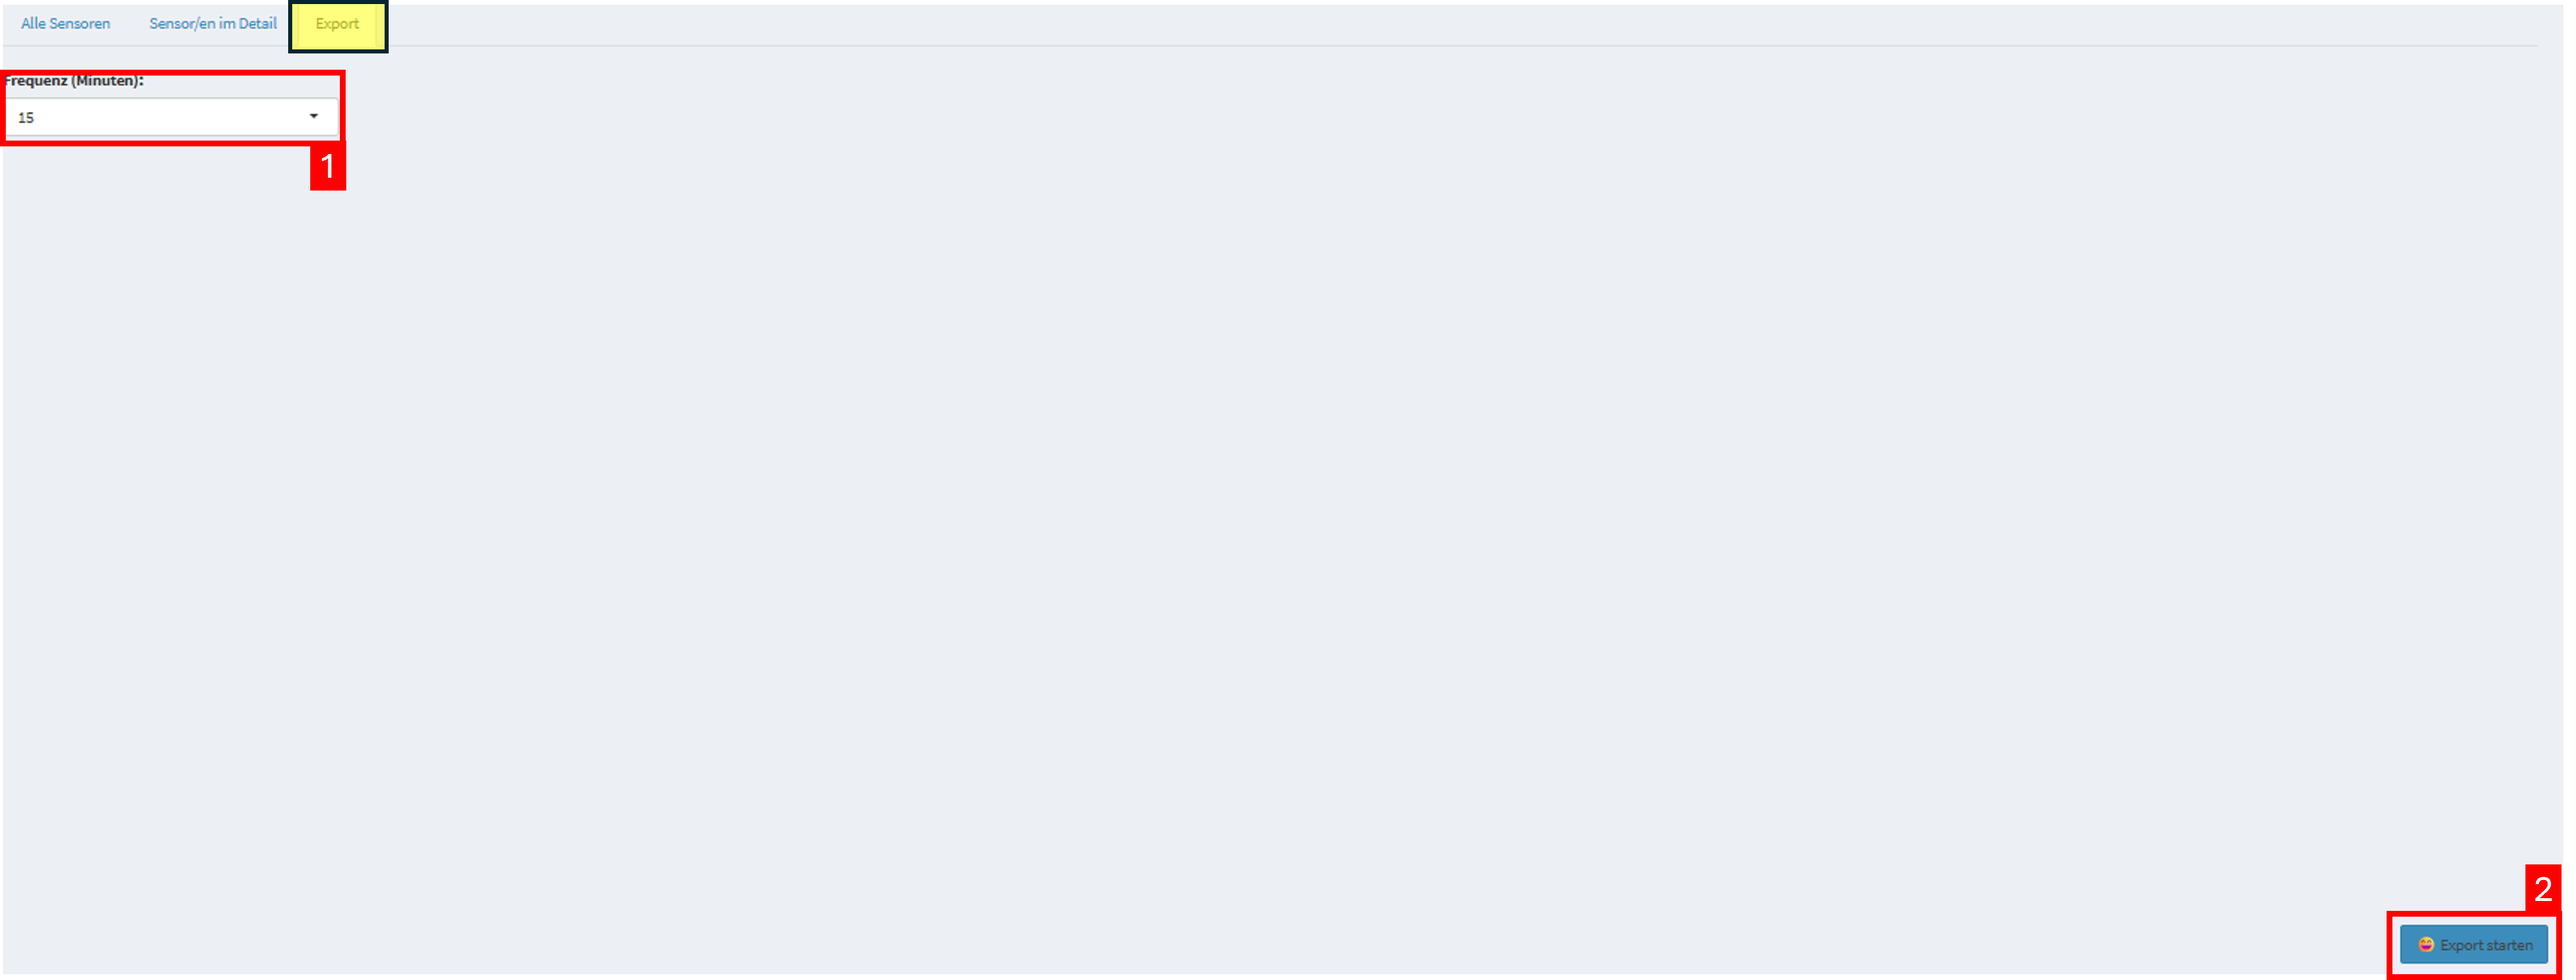
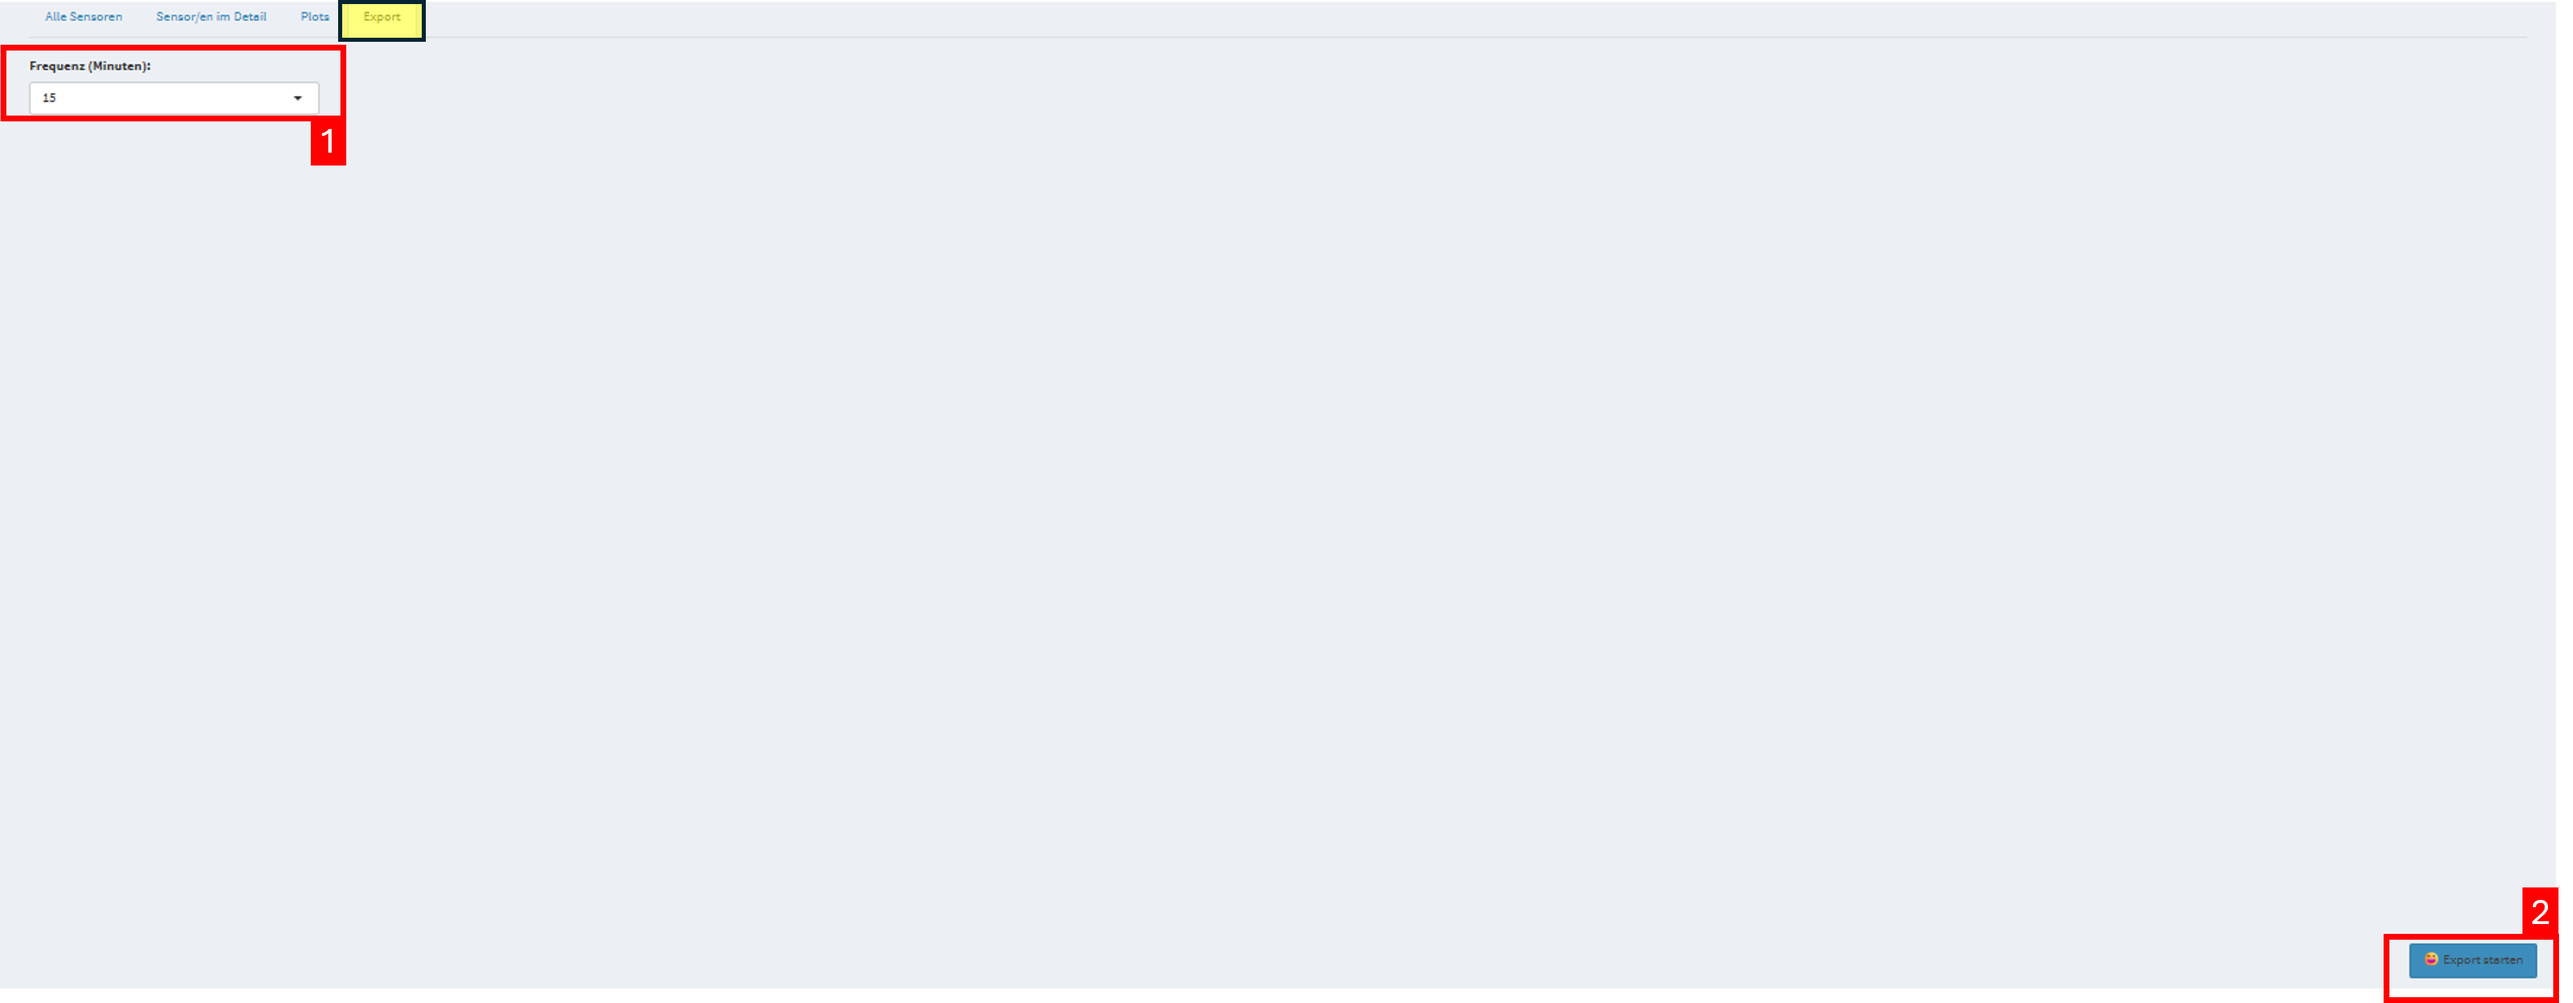
Change screenshots and README

Changed region(s): [[0.0, 0.0, 0.1869, 0.1849], [0.9036, 0.9247, 0.9971, 0.9864]]

diff --git a/README.md b/README.md
@@ -12,13 +12,14 @@
     - Möglichkeit im Dashboard die Daten im CSV-Format zu exportieren.
 - **Ansatz:**
     - Umsetzung der Funktionen mit R. und Aufbau des Dashboards mittels Shiny.
-    - Rohdaten aus einer InfluxDB einlesen, aufbereiten und transformieren.
-    - Bewerten der Daten anhand definierter Qualitätsdimensionen. (Vollständigkeit, Konsistenz, Gültigkeit, Aktualität und Eindeutigkeit)
+    - Einlesen, Aufbereitung und Transformation von Rohdaten aus einer InfluxDB.
+    - Bewertung der Daten anhand definierter Qualitätsdimensionen. (Vollständigkeit, Konsistenz, Gültigkeit, Aktualität und Eindeutigkeit)
 - **Funktionalitäten des Prototyps:**
     - Interaktive Shiny-App
     - Übersichtstabelle der Qualitätsmetriken je Sensor
     - Filter nach Zeitraum, Uhrzeit und Sensor
     - Detailansicht einzelner Sensoren mit Rohdaten
+    - Visualisierung der Qualitätsmetriken einzelner Sensoren
     - Erklärung zu den Qualitätsdimensionen der Daten
     - Export der Daten
 
@@ -26,38 +27,51 @@
 ## Verzeichnisstruktur
 
 ```text
-📁 data/                        # CSV-Dateien für Analyse und Shiny-App
-|---📁 testdaten_hmsense/       # Order für gegebene Beispieldaten
-    |--- r1.csv                 # Beispieldaten 1
-    |--- r2.csv                 # Beispieldaten 2
-|--- data_quality_report.csv    # Bewertete Datenqualität pro Sensor
-|--- influx_block_1.csv         # Rohdatenblock mit allgemeinen Systeminformationen
-|--- influx_block_2.csv         # Rohdatenblock mit Eingangsparametern
-|--- influx_block_3.csv         # Messblock
-|--- influx_block_4.csv         # Rohdatenblock mit Sensortyp-Informationen
-|--- influx_block_5.csv         # Rohdatenblock mit Prozessor-Informationen
-|--- influx_block_6.csv         # Rohdatenblock mit Ausgangsparametern
-|--- influx_block_7.csv         # Relevante Sensordaten (z. B. Temperatur, CO₂)
-|--- sensor_daten_buendelt.csv  # Aufbereitete Zeitreihendaten aller Sensoren
-📁 README_Screenhots/           # Bilder für die README
-📁 shiny/                       # R-Skripte für die Datenaufbereitung und Shiny-App
-|--- 01_load_data.R             # Lädt und speichert Daten aus der InfluxDB als CSV
-|--- 02_prepare_sensor_data.R   # Umwandlung in Tabellen und Bewertung der Datenqualität
-|--- 03_app.R                   # Shiny-App
-.DS_Store                       # macOS-Systemdatei (wird ignoriert)
-.gitignore                      # Definiert, welche Datein Git ignorieren soll
-Entwicklungstagebuch.md         # Entwicklungstagebuch
-README.md                       # Diese Datei
-Stake_protokoll.md              # Protokoll des Stakeholder:innen Gespräch
-dashboard.Rproj                 # RStudio-Projektdatei zum Projektstart
-de_ModA_SoSe25_Teil2_Angabe.pdf # Aufgabenstellung Modularbeit
-setup_install.R                 # Installationsbefehle
+📁 README_Screenhots/               # Ordner für verwendete Screenshots im README
+|--- data_quality_report.csv        # Bewertete Datenqualität pro Sensor
+|--- influx_block_1.csv             # Rohdatenblock mit allgemeinen 
+📁 data/                            # Ordner für genutzte und erstellte .csv Dateien
+|---📁 testdaten_hmsense/           # Ordner für gegebene Beispieldaten
+    |--- r1.csv                     # Beispieldaten 1
+    |--- r2.csv                     # Beispieldaten 2
+|--- data_quality_report.csv        # Bewertete Datenqualität pro Sensor
+|--- influx_block_1.csv             # Rohdatenblock mit allgemeinen Systeminformationen
+|--- influx_block_2.csv             # Rohdatenblock mit Eingangsparametern
+|--- influx_block_3.csv             # Messblock
+|--- influx_block_4.csv             # Rohdatenblock mit Sensortyp-Informationen
+|--- influx_block_5.csv             # Rohdatenblock mit Prozessor-Informationen
+|--- influx_block_6.csv             # Rohdatenblock mit Ausgangsparametern
+|--- influx_block_7.csv             # Relevante Sensordaten (z. B. Temperatur, CO₂)
+|--- sensor_daten_buendelt.csv      # Aufbereitete Zeitreihendaten aller Sensoren
+📁 shiny/                           # R-Skripte für die Datenaufbereitung und Shiny-App
+|--- 01_load_data.R                 # Lädt und speichert Daten aus der InfluxDB als CSV
+|--- 02_prepare_sensor_data.R       # Umwandlung in Tabellen und Bewertung der Datenqualität
+|--- app.R                          # Shiny-App
+.DS_Store                           # macOS-Systemdatei (wird ignoriert)
+.gitignore                          # Definiert, welche Datein Git ignorieren soll
+Dashboard_Brainstorm_wireframe.pdf  # Sammlung von Ideen zum Dashboard
+Entwicklungstagebuch.md             # Entwicklungstagebuch
+README.md                           # Diese Datei
+Stake_protokoll.md                  # Protokoll des Stakeholder:innen Gespräch
+dashboard.Rproj                     # RStudio-Projektdatei zum Projektstart
+de_ModA_SoSe25_Teil2_Angabe.pdf     # Aufgabenstellung Modularbeit
+setup_install.R                     # Installationsbefehle
 ```
 
 ## Schritt-für-Schritt-Anleitung
-### **1. Benötigte Pakete installieren**
+
+Um die Funktionalität des Datenqualitäts-Dashboards zu zeigen, wurden beispiel .csv Dateien im */data* Ordner gespeichert. Diese Daten enthalten die Sensormesswerte für den Zeitraum von 13.06.2025 - 14.06.2025. Falls mit diesen Daten gearbeitet wird, können die Schritte **3. Daten aus der InfluxDB laden und speichern** und **4. Daten aufbereiten und Datenqualität bewerten** übersprungen werden. 
+
+Um die Daten der letzten 24 Stunden zu bekommen muss man die Schritte **3. Daten aus der InfluxDB laden und speichern** und **4. Daten aufbereiten und Datenqualität bewerten** ausführen. **Wichtig** hierbei ist, dass man die config.yml Datei dafür in das Verzeichnis */de_ma_group6* speichern muss, da man diese benötigt um sich mit der InfluxDB zu verbinden. Mit der Ausführung der Schritte 3. und 4. werden die existierenden .csv Dateien in */data* überschrieben.
+
+### **1. Richtiges Arbeitsverzeichnis öffnen**
+Um sicherzustellen, dass alle .R-Dateien richtig ausgeführt werden, muss das Projekt mit der *dashboard.Rproj* Datei geöffnet werden. Dies liegt an den relativen Pfaden in den .R-Dateien.
+
+### **2. Benötigte Pakete installieren**
 **Benötigte Datei:** `setup_install.R`
+
 **Aktivität:** Führe Sie dieses Skript aus,  um die benötigten Pakete für die Datenvorbereitung und App zu installieren.
+
 **Befehle:** 
 | **RStudio Console**      | **Terminal**            |
 |--------------------------|--------------------------|
@@ -67,9 +81,11 @@ setup_install.R                 # Installationsbefehle
 - Prüfung, ob alle benötigten Pakete installiert sind.
 - Automatische Installation fehlender Pakete.
 
-### **2. Daten aus der InfluxDB laden und speichern**
+### **3. Daten aus der InfluxDB laden und speichern**
 **Benötigte Datei:** `01_load_data.R`
+
 **Aktivität:** Führen Sie dieses Skript aus, um die Sensordaten der letzen 24 Stunden aus der InfluxDB zu laden und im Ordner */data* abzuspeichern.
+
 **Befehle:**
 | **RStudio Console**      | **Terminal**            |
 |--------------------------|--------------------------|
@@ -77,36 +93,40 @@ setup_install.R                 # Installationsbefehle
 
 **Was passiert:**
 - Die in der config.yml Datei hinterlegt Datenbankverbindung wird genutzt um die Daten der letzten 24 Stunden zu laden.
-- ***!Wichtig!:*** Die config.yml Datei wurde nicht in das Git Repository geladen und muss in den Ordner */de_ma_group6* gelegt werden um eine Verbindung zur Datenbank aufzubauen. Um die Funktionalität des Dashboards zu präsentieren, sind im Ordner */de_ma_group6/data* bereits vorgeladene Daten hinterlegt.
-- Die gelesenen Daten werden in sieben Blöcke aufgeteilt ("influx_block_x.csv"), wobei nur der Block sieben relevante Daten enthält und im Ordner */de_ma_group6/data* abgepeichert
 
-### **3. Daten aufbereiten und Datenqualität bewerten**
+- Die gelesenen Daten werden in sieben Blöcke aufgeteilt ("influx_block_x.csv"), wobei nur der Block sieben relevante Daten enthält und im Ordner */de_ma_group6/data* abgepeichert.
+
+### **4. Daten aufbereiten und Datenqualität bewerten**
 **Benötigte Datei:** `02_prepare_sensor_data.R`
+
 **Aktivität:** Führen Sie dieses Skript aus, um die relevanten Sensordaten aufzubereiten und zu bewerten.
+
 **Befehle:**
 | **RStudio Console**      | **Terminal**            |
 |--------------------------|--------------------------|
-| `source("shiny/02_prepare_sensor_data.R")` | `Rscript shiny/02_prepara_sensor_data.R` |
+| `source("shiny/02_prepare_sensor_data.R")` | `Rscript shiny/02_prepare_sensor_data.R` |
 
 **Was passiert:**
 - Umwandlung der Messdaten aus "influx_block_7.csv" in das Wide-Format.
 - Zusammenführung zu einem einheitlichen Zeitraster.
-- Bewertung der Datenqualität anhand definierter Datenqualiätsdimensionen (Accuracy, Completeness, Consistency, Timeliness, Validity und Uniqueness)
-- Speicherung der bewerteten Datenqualitätsdimensionen in */de_ma_group6/data/data_quality_report.csv*
-- Speicherung der gebündelten Sensordaten in */de_ma_group6/data/sensor_daten_buendelt.csv*
+- Bewertung der Datenqualität anhand definierter Datenqualiätsdimensionen (Accuracy, Completeness, Consistency, Timeliness, Validity und Uniqueness).
+- Speicherung der bewerteten Datenqualitätsdimensionen in */de_ma_group6/data/data_quality_report.csv*.
+- Speicherung der gebündelten Sensordaten in */de_ma_group6/data/sensor_daten_buendelt.csv*.
 
-### **4. Shiny-App starten**
-**Benötigte Datei:** `02_prepare_sensor_data.R`
+### **5. Shiny-App starten**
+**Benötigte Datei:** `app.R`
+
 **Aktivität:** Starten Sie die Shiny-App um auf das Dashboard zuzugreifen.
+
 **Befehle:**
 | **RStudio Console**      | **Terminal**            |
 |--------------------------|--------------------------|
 | `shiny::runApp("shiny/03_app.R")` | `Rscript -e "shiny::runApp('shiny/03_app.R')"` |
 
 **Was passiert:**
-- Öffnung der Shiny-App in einem RStudio Fenster oder Browserfenster
+- Öffnung der Shiny-App in einem RStudio Fenster oder Browserfenster.
 
-### **5.Aufbau des Dashboards**
+### **6. Aufbau des Dashboards**
 In diesem Teil der Schritt-für-Schritt Anleitung finden Sie einen Überblick über den Aufbau des Dashboards. Unter den Screenshots finden Sie jeweils eine Erklärung zu den wichtigen Punkten aus dem Screenshot.
 
 **Allgemeines zum Dashboard:**
@@ -118,7 +138,8 @@ In diesem Teil der Schritt-für-Schritt Anleitung finden Sie einen Überblick ü
 4. In diesem Feld können Sie die Uhrzeit festlegen, anhand welcher die Daten bewertet werden sollen.
 5. Mit diesem Button können Sie die Sensorwahl zurücksetzen.
 6. Mit diesem Button können Sie den Zeitraum zurücksetzen.
-7. In diesem Suchfeld können Sie nach bestimmten Sensoren oder Werten suchen.
+7. In diesem Abschnitt sehen Sie eine kompakte Zusammenfassung der Qualitätsdimensionen Bewertung.
+8. In diesem Suchfeld können Sie nach bestimmten Sensoren oder Werten suchen.
 
 **Alle Sensoren:**
 ![Dashboard Alle Sensoren](README_Screenshots/dashboard_alle.png)
@@ -127,6 +148,11 @@ In diesem Teil der Schritt-für-Schritt Anleitung finden Sie einen Überblick ü
 **Detailansicht:**
 ![Dashboard Detailansicht](README_Screenshots/dashboard_detail.png)
 1. In dem Reiter "Sensor/en im Detail" sehen Sie die Sensoren, welche Sie im Drop-down Menü im Dashboard ausgewählt haben. In dieser Tabelle sehen Sie die aufbereiteten Messwerte der Sensoren.
+
+**Plotansicht**
+![Dashboard Detailansicht](README_Screenshots/dashboard_plot.png)
+1. In diesem Drop-down Menü können Sie einen Sensor auswählen, für welchen die Visualisierung darunter angezeigt werden soll. Die Visualisierung zeigt für jede Messgröße des Sensors die jeweiligen Werte in einem Balkendiagramm.
+2. In diesem Drop-down Menü können Sie mehrere Sensoren auswählen, für welche die Visualisierung darunter angezeigt werden soll. Die Visualisierung zeigt dabei die Heatmap der Qualitätsmetriken pro Sensor.
 
 **Export:**
 ![Dashboard Export](README_Screenshots/dashboard_export.png)
